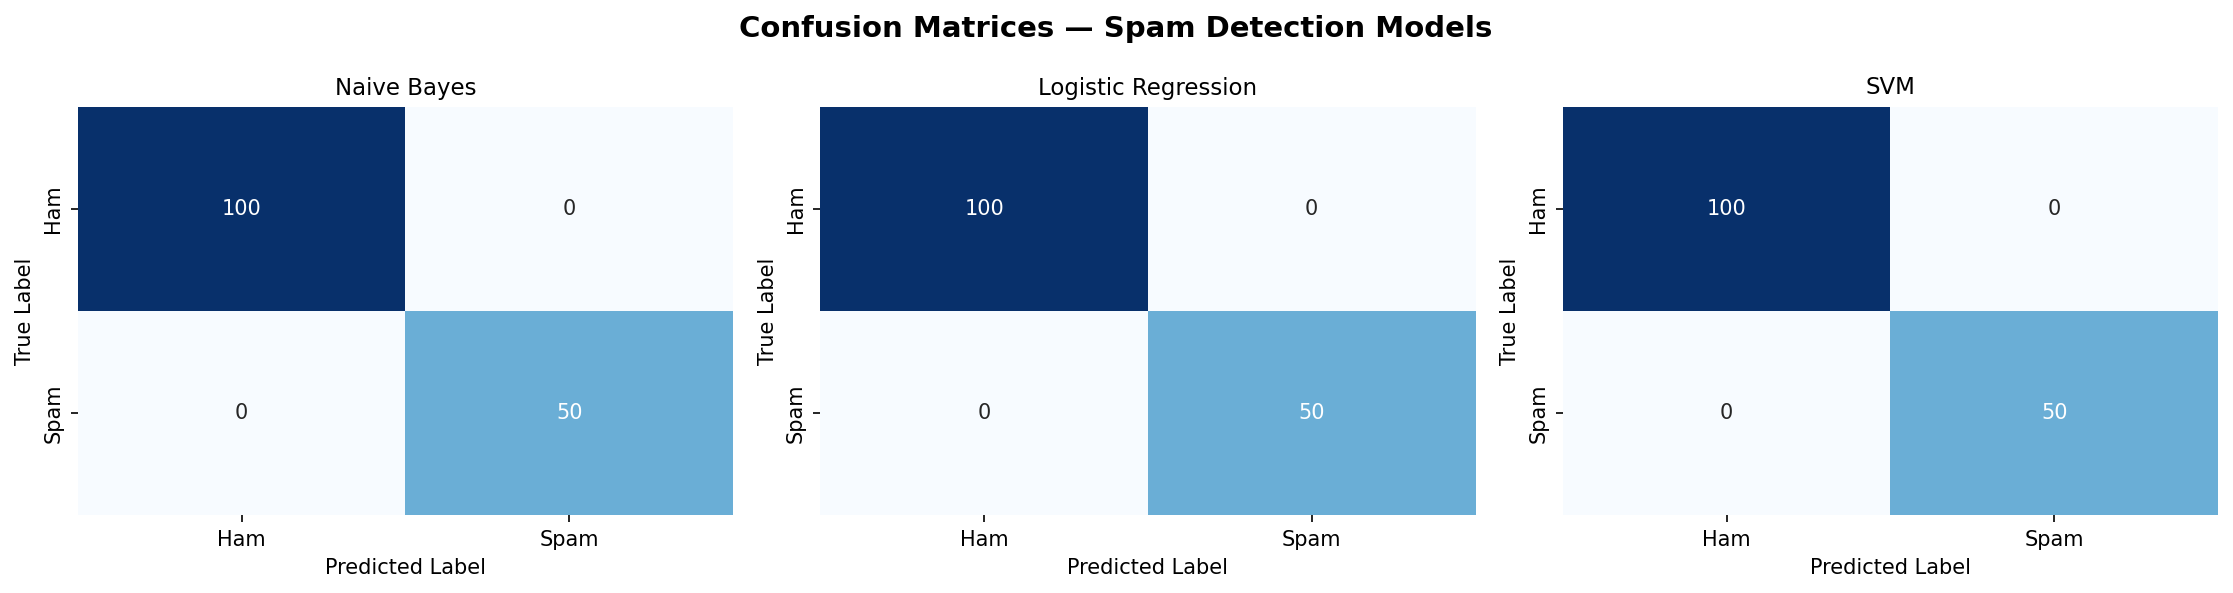
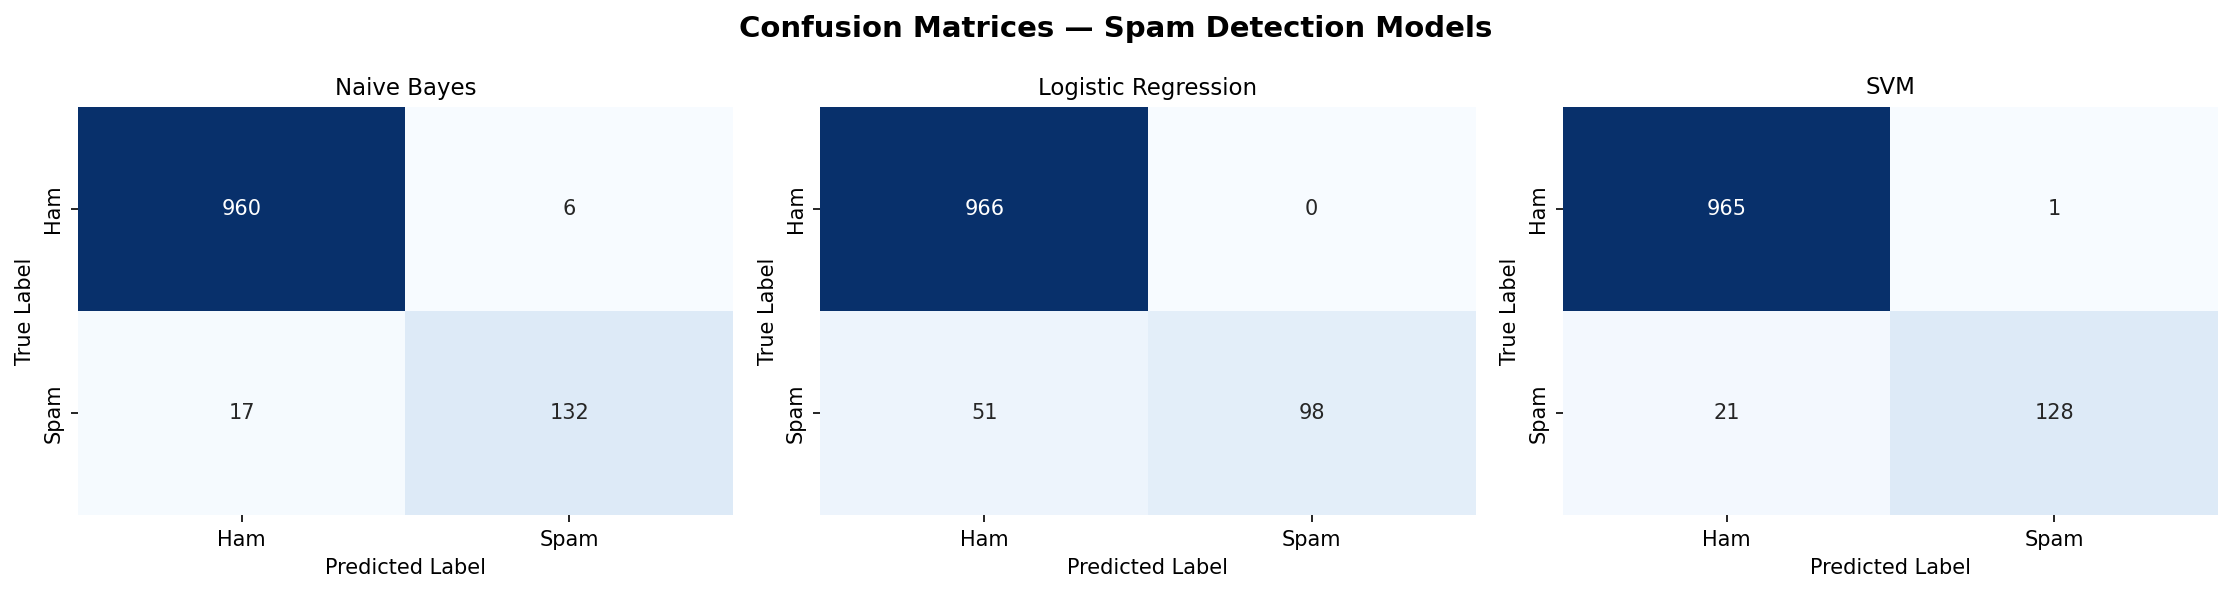
Finished up loading in dataset and generating graphs

diff --git a/src/spam.py b/src/spam.py
@@ -2,6 +2,7 @@ import pandas as pd
 import numpy as np
 import matplotlib.pyplot as plt
 import seaborn as sns
+import re
  
 from sklearn.model_selection import train_test_split, cross_val_score
 from sklearn.feature_extraction.text import TfidfVectorizer
@@ -14,42 +15,16 @@ from sklearn.metrics import (
 )
 
 # Placeholder random data to text code
-import random
-random.seed(42)
-spam_samples = [
-    "Congratulations! You've won a $1000 gift card. Click here to claim now!",
-    "FREE entry in our weekly competition to win FA Cup final tickets!",
-    "URGENT: Your account has been compromised. Verify immediately.",
-    "You have been selected for a cash prize. Reply YES to claim.",
-    "Get cheap medications online. No prescription needed!",
-    "Win a holiday for two! Text WIN to 80082 now.",
-    "Call now to claim your prize before it expires!",
-    "Earn money from home. No experience needed. Apply today.",
-    "Your loan application approved. Click link to receive funds.",
-    "ALERT: Suspicious login detected. Click to secure account.",
-]
-ham_samples = [
-    "Hey, are you coming to the study session tonight?",
-    "Can you pick up some groceries on your way home?",
-    "The lecture slides have been posted on Canvas.",
-    "Don't forget the assignment is due Friday.",
-    "Let me know when you're free to meet this week.",
-    "Happy birthday! Hope you have a great day.",
-    "I'll be a few minutes late to the meeting.",
-    "Did you see the game last night? Incredible finish.",
-    "The library is closed on Sunday this week.",
-    "Can you send me the notes from Tuesday's class?",
-]
-random.shuffle(spam_samples)
-random.shuffle(ham_samples)
-data = (
-    [{"label": "spam", "text": s} for s in spam_samples * 25]
-    + [{"label": "ham", "text": h} for h in ham_samples * 50]
-)
-df = pd.DataFrame(data).sample(frac=1, random_state=42).reset_index(drop=True)
+df = pd.read_csv("./data/SMSSpamCollection", sep="\t", header=None, names=["label", "text"])
 
-# extremely basic preprocessing (replace with more if needed)
-df["cleaned"] = df["text"].str.lower().str.strip()
+
+def preprocess(text):
+    text = text.lower()                          
+    text = re.sub(r"[^a-z\s]", "", text)         
+    text = re.sub(r"\s+", " ", text).strip()    
+    return text
+
+df["clean_text"] = df["text"].apply(preprocess)
 
 # TF-IDF Vectorization
 vectorizer = TfidfVectorizer(
@@ -59,7 +34,7 @@ vectorizer = TfidfVectorizer(
     sublinear_tf=True       
 )
  
-X = vectorizer.fit_transform(df["cleaned"])
+X = vectorizer.fit_transform(df["clean_text"])
 y = (df["label"] == "spam").astype(int) 
  
  